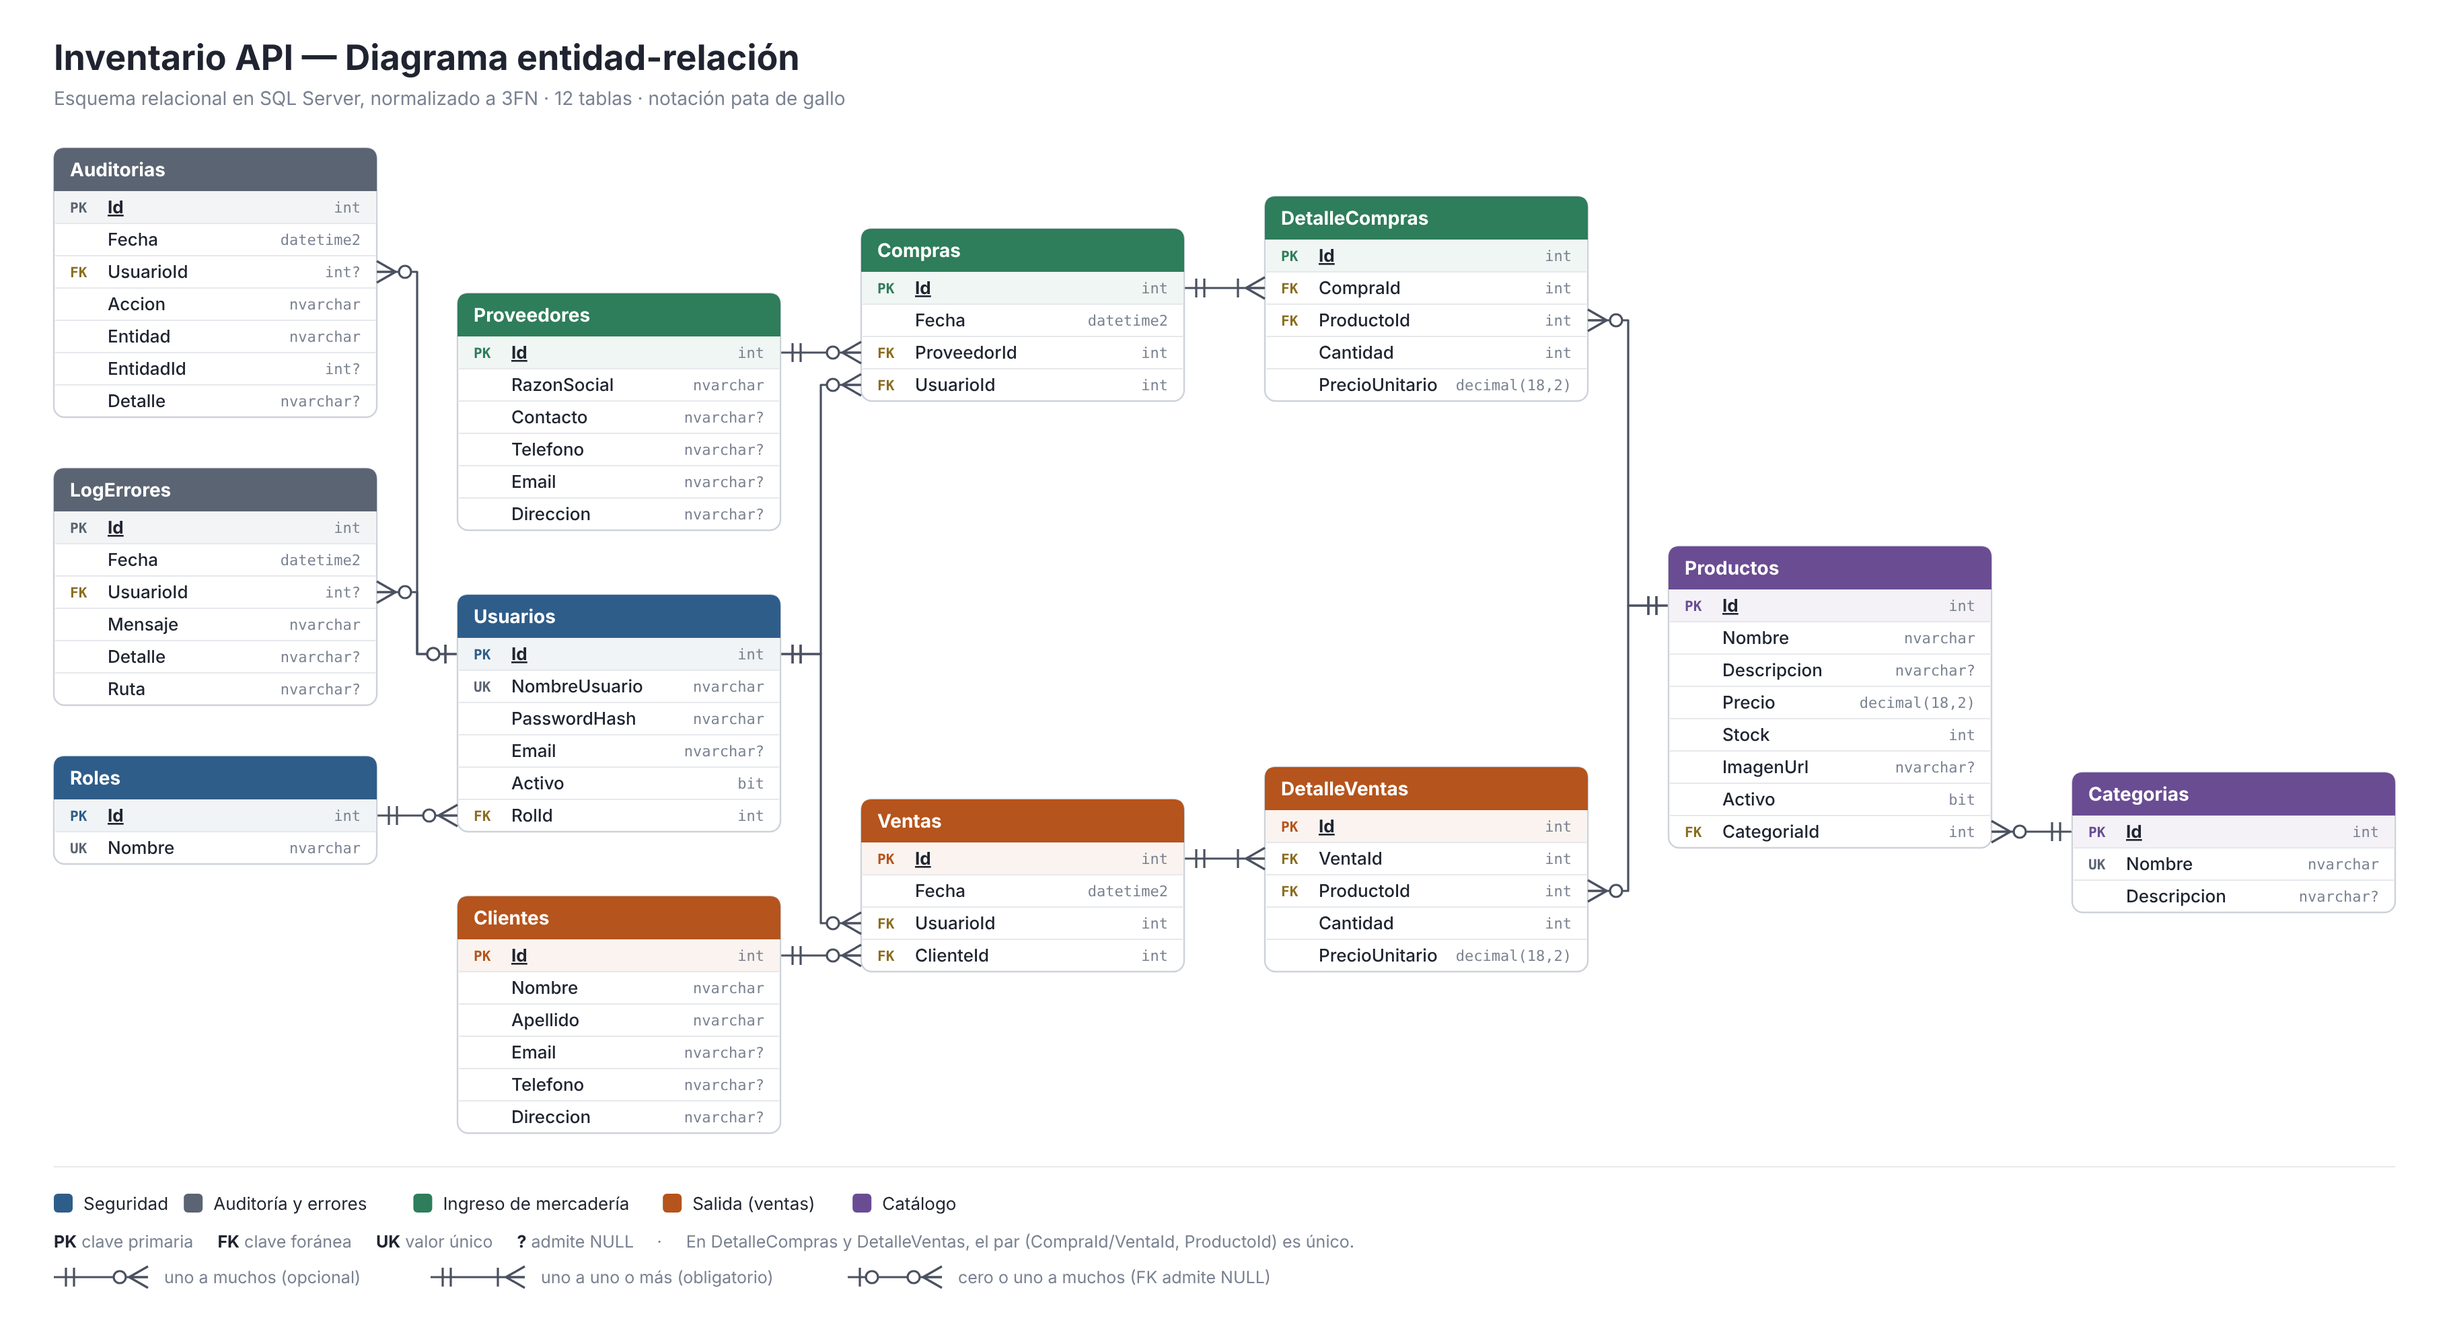
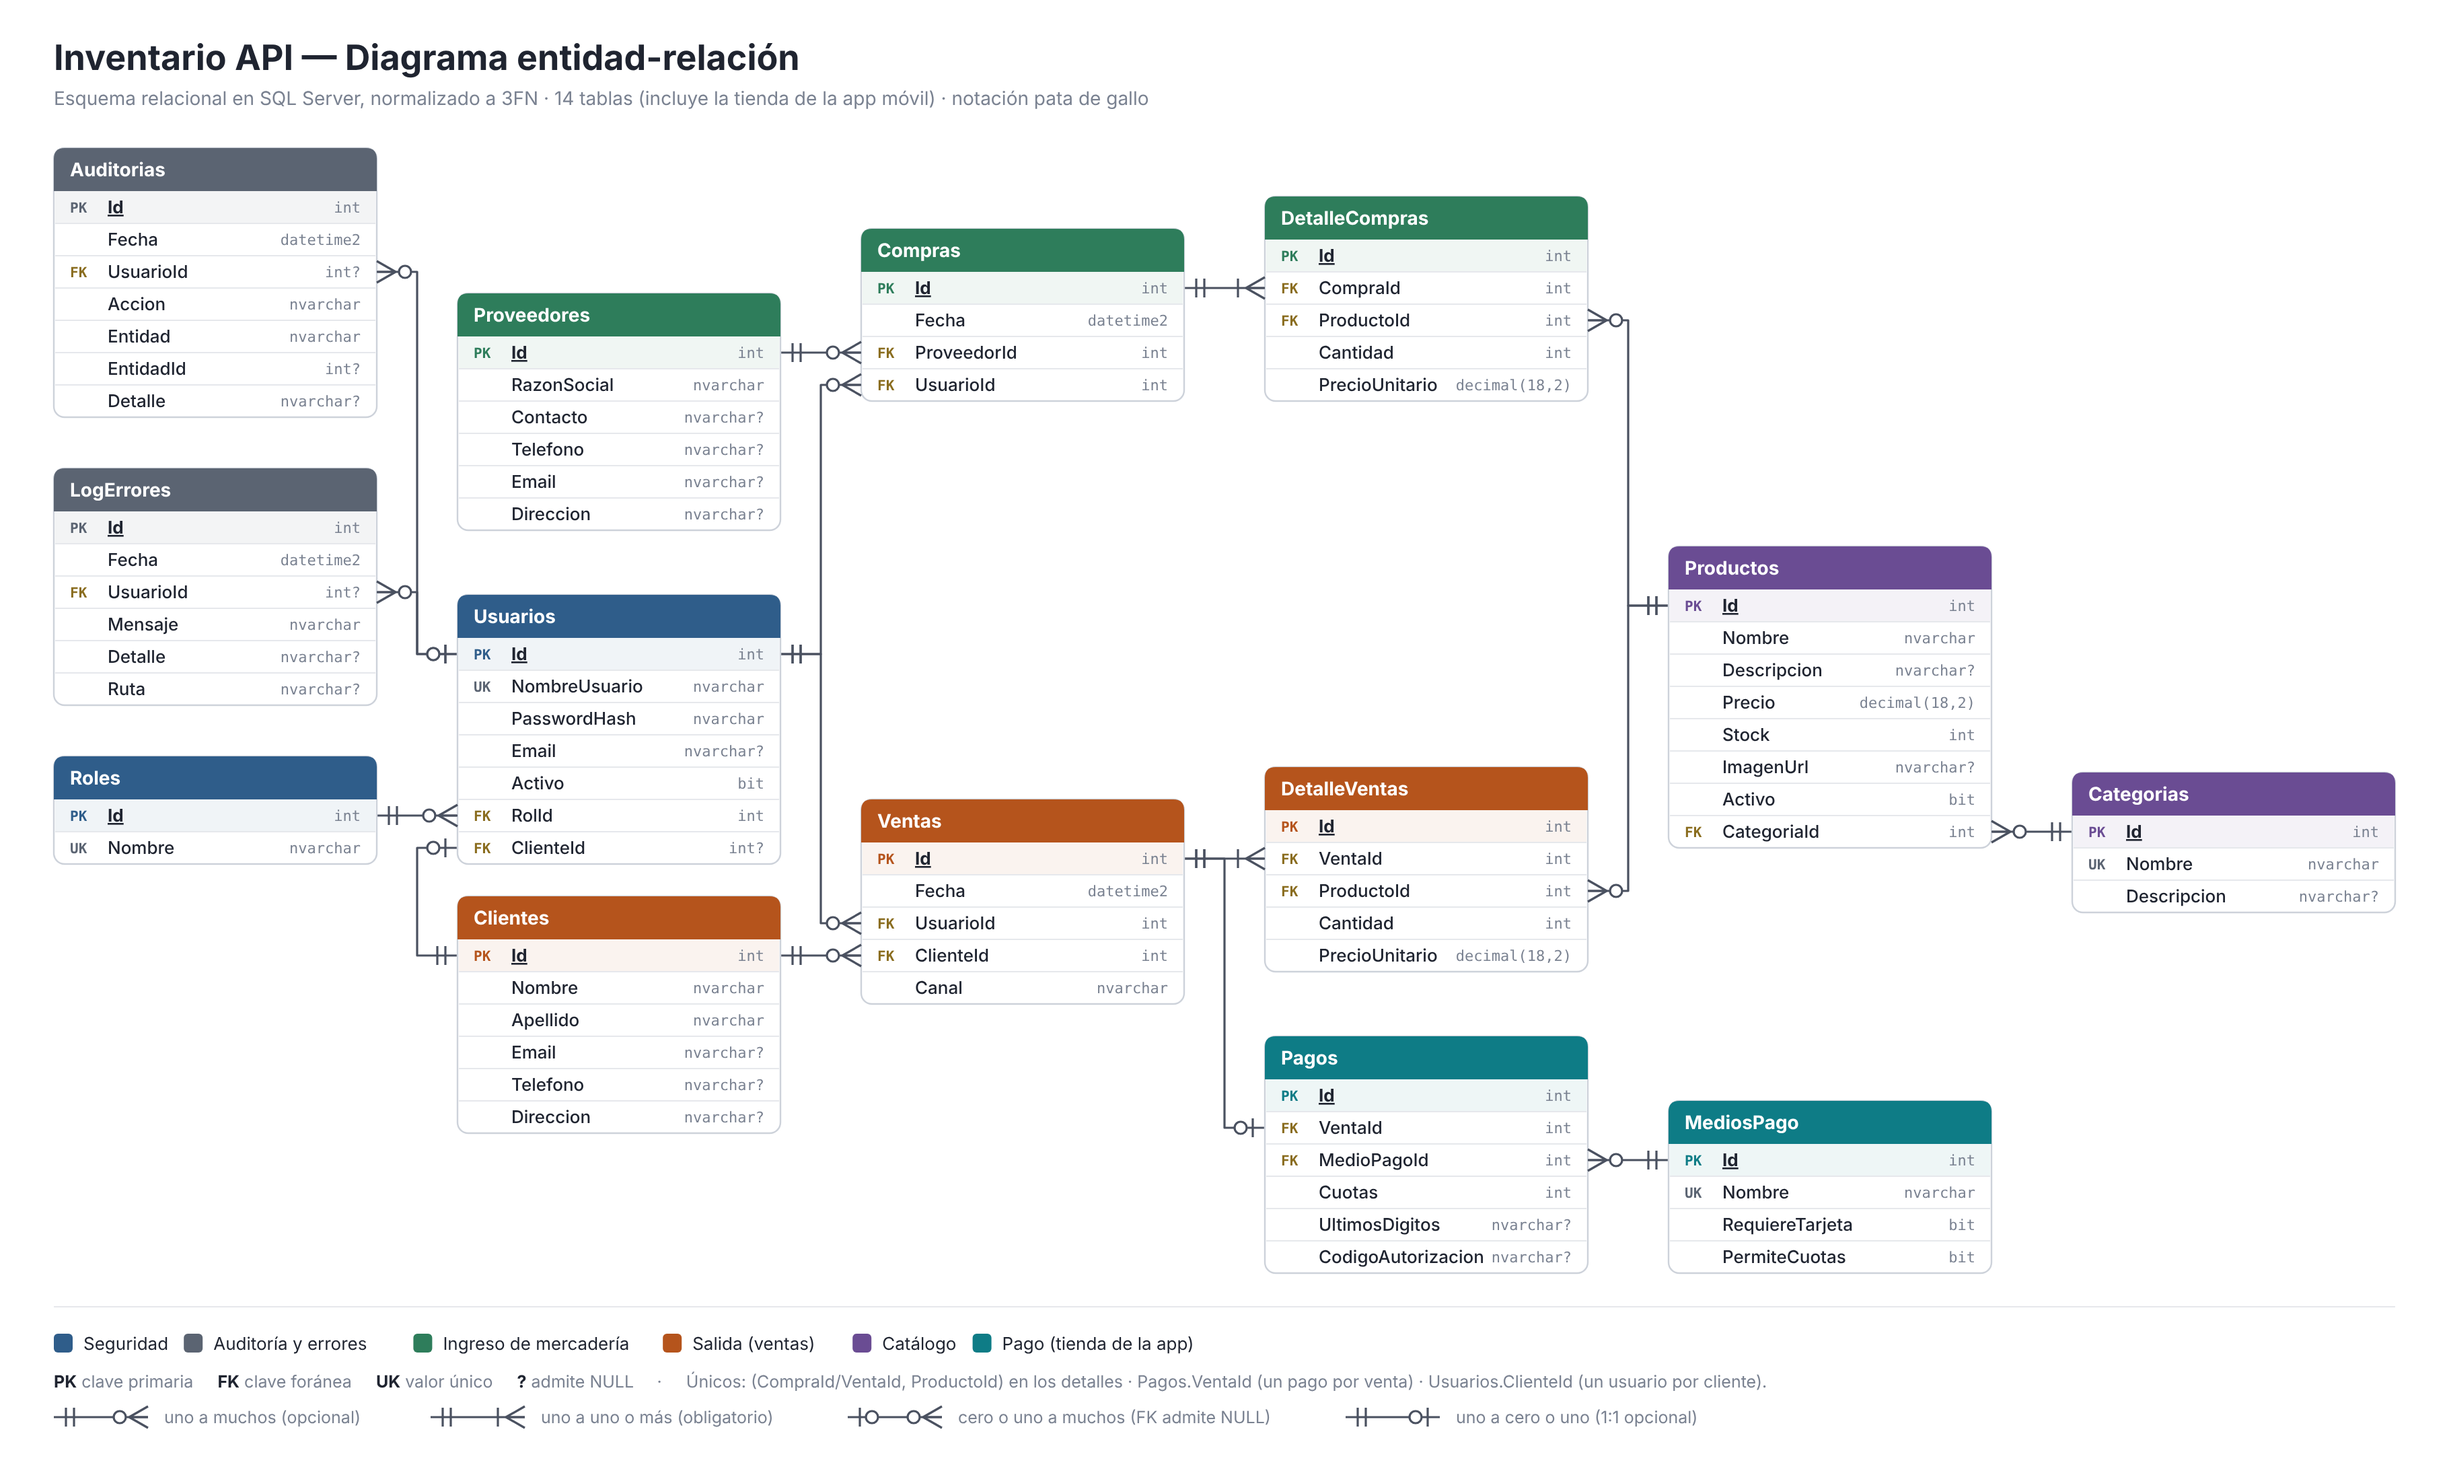
Documentación del TP móvil y diagrama ER actualizado

diff --git a/README-movil.md b/README-movil.md
@@ -1,0 +1,151 @@
+# Caja y Stock — App móvil (tienda online para Android)
+
+Trabajo práctico de **Programación Móvil (TP6)**: frontend **.NET MAUI Blazor Hybrid** para **Android**, vinculado a la **API REST en ASP.NET Core (.NET 10)** del TP5. Es la tienda online del negocio: los clientes ven el catálogo con la disponibilidad de cada producto, arman el carrito y pagan (pago simulado). El administrador registra el ingreso de mercadería, consulta el stock, genera reportes PDF y revisa la auditoría desde el celular.
+
+La app usa **la misma API y la misma base de datos** que el TP6 de Programación Web ([README.md](README.md)). Las ventas de la tienda y las de la caja web descuentan el mismo stock y aparecen juntas en los reportes, diferenciadas por canal (**App** o **Caja**).
+
+## Cómo probarla
+
+| | |
+|---|---|
+| **API publicada** (la que usa la app por defecto) | https://inventarioapi.runasp.net/swagger |
+| **Proyecto** | `InventarioApi.Movil` dentro de la solución `InventarioApi/InventarioApi.slnx` |
+| **Plataforma** | Android 7.0 o superior (probada en emulador Pixel 9 · Android 16) |
+
+### Usuarios de prueba
+
+| Usuario | Contraseña | Rol | Qué ve en la app |
+|---|---|---|---|
+| *(crear desde la app)* | | Cliente | Catálogo, carrito, pago y Mis compras |
+| `admin` | `Admin123!` | Administrador | Stock, ingreso de mercadería, reportes, ventas, auditoría y usuarios |
+| `cajero1` | `Cajero123!` | Cajero | Catálogo con stock y sus ventas |
+
+Sin iniciar sesión se puede recorrer el catálogo y armar el carrito; para pagar la app pide ingresar o crear una cuenta de cliente.
+
+### Tarjetas de prueba (pago simulado)
+
+| Tarjeta | Resultado |
+|---|---|
+| `4509 9535 6623 3704` | Aprobada |
+| `4000 0000 0000 0002` | Rechazada por fondos insuficientes |
+| Cualquier compra de más de $ 500.000 con tarjeta | Rechazada por límite |
+
+Vencimiento futuro (MM/AA) y cualquier código de 3 dígitos. La pantalla de pago tiene un botón que completa estos datos. Billetera virtual y transferencia siempre se aprueban.
+
+## Funcionalidades
+
+**Catálogo (estilo tienda online)**
+- Grilla de productos con foto, precio y cuotas sin interés.
+- Búsqueda por nombre y filtro por categoría.
+- Disponibilidad visible en cada producto: *Disponible*, *¡Últimas 3 unidades!*, *¡Último disponible!* o *Sin stock* (el producto agotado se muestra atenuado y no se puede comprar).
+- Detalle del producto con descripción, stock disponible y selector de cantidad limitado al stock.
+
+**Carrito y compra (Cliente)**
+- El carrito se guarda en el celular aunque se cierre la app.
+- Antes de pagar se vuelven a consultar precio y stock de cada producto: si algo cambió o se agotó, se avisa y se ajusta.
+- Pago simulado con tarjeta de crédito (1, 3, 6 o 12 cuotas), tarjeta de débito, billetera virtual o transferencia. Vista previa de la tarjeta mientras se completan los datos.
+- La API valida todo de nuevo dentro de una transacción: bloquea el stock, autoriza el pago y recién entonces registra la venta. Si el pago se rechaza, **no se registra la venta ni se toca el stock**, y el rechazo queda auditado.
+- Comprobante con código de autorización y sección **Mis compras** con el historial.
+
+**Administración (Admin)**
+- **Stock:** el catálogo muestra el número de unidades y resalta el stock bajo.
+- **Fotos de productos:** desde el detalle se puede **sacar una foto con la cámara** o elegirla de la galería; se achica en el celular y se sube a la API.
+- **Ingreso de mercadería:** proveedor (o alta de uno nuevo), productos, cantidades y costo; muestra el stock resultante antes de confirmar.
+- **Reportes PDF:** stock, ventas (salidas, con totales por canal) e ingresos (entradas) por período. Se **ven dentro de la app**, se **comparten** (WhatsApp, Gmail, Drive…) o se **envían por correo** desde la API.
+- **Ventas:** las de la caja web y las de la app, con su canal.
+- **Auditoría y errores:** movimientos filtrables por acción y entidad, registro de errores con detalle técnico y botón para generar un error de prueba.
+- **Usuarios y roles:** cambio de rol y activación/desactivación.
+
+**Configuración**
+- Pantalla **Servidor** para elegir a qué API conectarse: la publicada (por defecto), la API corriendo en la PC (para el emulador) u otra dirección, con prueba de conexión.
+
+## Arquitectura
+
+```
+InventarioApi.Movil/
+├── MauiProgram.cs            → registro de servicios, cultura es-AR
+├── MainPage.xaml             → BlazorWebView que aloja la interfaz Blazor
+├── Components/
+│   ├── Routes.razor          → rutas con AuthorizeRouteView (control de acceso por rol)
+│   ├── Layout/               → MainLayout con barra de pestañas según el rol
+│   ├── Pages/                → Catálogo, Producto, Carrito, Pagar, Mis compras, Ingreso, Reportes, Ventas, Auditoría, Usuarios, Cuenta, Servidor…
+│   └── Shared/               → componentes reutilizables (tarjeta de producto, precio, disponibilidad, íconos…)
+├── Services/
+│   ├── ApiClient.cs          → todas las llamadas HTTP; agrega el token y traduce los errores
+│   ├── SesionUsuario.cs      → AuthenticationStateProvider; token JWT en SecureStorage
+│   ├── CarritoCompras.cs     → carrito persistido en Preferences
+│   ├── ConfiguracionApp.cs   → servidor elegido
+│   ├── ArchivosPdf.cs        → guardar, ver, abrir y compartir PDF
+│   └── FotosProducto.cs      → cámara / galería y reducción de la imagen
+├── Platforms/Android/
+│   ├── LectorPdf.cs          → muestra el PDF con PdfRenderer (lector nativo de Android)
+│   ├── AndroidManifest.xml   → permisos (internet, cámara)
+│   └── Resources/xml/network_security_config.xml → solo HTTPS, salvo la API local del emulador
+└── wwwroot/                  → index.html y estilos (diseño propio, sin Bootstrap)
+```
+
+**Blazor Hybrid:** las pantallas son componentes Razor como en la web, pero se ejecutan de forma nativa dentro de la app (.NET corre en el celular) y se dibujan en un WebView. Por eso pueden usar funciones del dispositivo que una página web no tiene: almacenamiento seguro, cámara, compartir archivos y el lector de PDF de Android.
+
+### Cambios en la API (aditivos, sin afectar la web)
+
+| Cambio | Para qué |
+|---|---|
+| Rol `Cliente` y `POST api/auth/registro-cliente` | Registro de compradores desde la app (crea la ficha de cliente y su usuario) |
+| `TiendaController`: `GET api/tienda/medios-pago`, `POST api/tienda/checkout`, `GET api/tienda/mis-compras` | Pago simulado y compras del cliente |
+| `VentaService` | Registra la venta con bloqueo de stock y autorización del pago dentro de la misma transacción |
+| `SimuladorPagos` | Valida la tarjeta (algoritmo de Luhn, vencimiento, código) y simula la respuesta del banco; guarda solo los últimos 4 dígitos |
+| Columna `Ventas.Canal` y campo `Canal` en `GET api/ventas` | Distinguir ventas de la caja y de la app; el reporte de ventas muestra los totales por canal |
+| Auditoría `PagoRechazado` | Los pagos rechazados quedan registrados aunque no se cree la venta |
+
+## Base de datos
+
+Misma base SQL Server del TP web, **normalizada hasta tercera forma normal**, con 14 tablas. Diagrama entidad-relación (editable en `diagrama-er.drawio`):
+
+![Diagrama entidad-relación](diagrama-er.png)
+
+Tablas y columnas que agrega la tienda (migración `TiendaMovil`):
+
+- **`MediosPago`** (`Id`, `Nombre` único, `RequiereTarjeta`, `PermiteCuotas`): catálogo de medios de pago, cargado como dato inicial.
+- **`Pagos`** (`Id`, `VentaId` único, `MedioPagoId`, `Cuotas`, `UltimosDigitos`, `CodigoAutorizacion`): un pago por venta de la app.
+- **`Ventas.Canal`**: `Caja` o `App` (las ventas existentes quedan como `Caja`).
+- **`Usuarios.ClienteId`** (único, admite NULL): vincula el usuario con rol Cliente con su ficha en `Clientes`.
+
+Por qué respeta la 3FN:
+
+- **El pago no guarda el importe ni la fecha:** se obtienen de la venta (fecha) y de sus detalles (total). Guardarlos en `Pagos` sería un dato derivado que podría quedar desincronizado.
+- **Los medios de pago están en su propia tabla:** el nombre y sus reglas (si requiere tarjeta, si permite cuotas) dependen del medio, no de cada pago.
+- **`Pagos` es una tabla aparte de `Ventas`:** las ventas de la caja no tienen pago con tarjeta; así no quedan columnas vacías en cada venta.
+- **El cliente no se duplica en `Usuarios`:** nombre, apellido, email y dirección están solo en `Clientes`; el usuario guarda la referencia `ClienteId`.
+- **Por seguridad no se guarda el número de tarjeta ni el código**, solo los últimos 4 dígitos.
+
+## Seguridad y control de acceso
+
+- **JWT:** el token se guarda en el **almacenamiento seguro** del celular (`SecureStorage`, cifrado por Android) y se envía en cada pedido. Si vence, la app cierra la sesión y vuelve al login.
+- **Roles en la API** con `[Authorize(Roles = "...")]`: solo un Cliente puede pagar; solo el Admin ingresa mercadería, ve reportes, auditoría y usuarios.
+- **Roles en la app:** `AuthorizeRouteView` protege cada pantalla y la barra de pestañas cambia según el rol. Es solo comodidad: la API vuelve a controlar todo.
+- **El registro desde la app solo crea clientes.** No se puede crear un administrador ni un cajero desde la tienda.
+- **El precio lo pone la API** desde la base de datos; la app solo envía producto y cantidad.
+- **Solo HTTPS:** Android bloquea conexiones sin cifrar; la única excepción configurada es la API local vista desde el emulador (`10.0.2.2`).
+
+## Auditoría y registro de errores
+
+Se reutiliza el mecanismo de la API: cada alta, modificación y baja se audita automáticamente (incluidas las ventas de la app, sus pagos y el descuento de stock), además de los ingresos al sistema, los pagos rechazados y los reportes generados o enviados. Los errores no controlados se guardan en `LogErrores` y la app muestra el número de error. Desde **Más → Auditoría y errores** se pueden consultar y generar un error de prueba.
+
+## Cómo ejecutarla
+
+1. Visual Studio 2026 con la carga de trabajo **Desarrollo de .NET Multi-platform App UI** (instala el SDK y el emulador de Android).
+2. Abrir `InventarioApi/InventarioApi.slnx`.
+3. **Con la API publicada:** click derecho en `InventarioApi.Movil` → *Establecer como proyecto de inicio*, elegir el emulador o el celular y **F5**.
+4. **Con la API en la PC:**
+   - Preparar la base como indica el [README del TP web](README.md#cómo-ejecutarlo-localmente).
+   - Iniciar la API con click derecho en `InventarioApi` → *Depurar → Iniciar sin depurar*.
+   - Ejecutar la app con **F5** y, en la app, *Ingresar → Servidor → API en la PC (solo emulador)*.
+5. **En un celular:** activar las *Opciones de desarrollador* y la *Depuración USB*, conectarlo por cable, aceptar el aviso en el teléfono, elegirlo en Visual Studio (*Dispositivos locales de Android*) y **F5**. La app queda instalada.
+
+## Tecnologías
+
+.NET 10 · .NET MAUI · Blazor Hybrid · ASP.NET Core Web API · Entity Framework Core · SQL Server · JWT · BCrypt · QuestPDF · MailKit · Android PdfRenderer
+
+## Autores
+
+Trabajo práctico desarrollado por **Arrieta Maximiliano** y **Marco Gonzáles** — 2026.
